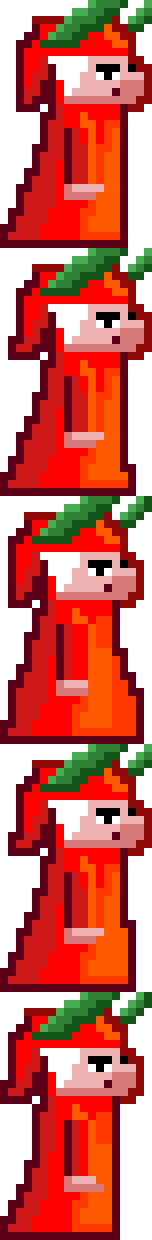
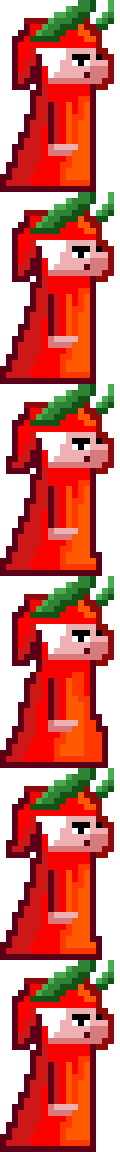
Update sprites, make Virgil follow player

diff --git a/game/src/main.js b/game/src/main.js
@@ -33,14 +33,14 @@ function preloadCommon(scene) {
     scene.load.spritesheet('tiles', 'assets/tileset.png', 
         {frameWidth: 128, frameHeight: 128});
     scene.load.spritesheet('player', 'assets/dante.png',
-        {frameWidth: 152, frameHeight: 248});
+        {frameWidth: 120, frameHeight: 192});
     scene.load.spritesheet('virgil', 'assets/virgil.png',
-        {frameWidth: 152, frameHeight: 248});
+        {frameWidth: 120, frameHeight: 192});
 
     scene.load.spritesheet('elevator', 'assets/elevator.png', 
-        {frameWidth: 350, frameHeight: 392});
+        {frameWidth: 375, frameHeight: 350});
     scene.load.spritesheet('elevator_doors', 'assets/elevator_doors.png', 
-        {frameWidth: 196, frameHeight: 322});
+        {frameWidth: 375, frameHeight: 350});
 
     const ui_assets = ['button_left_active', 'button_left_passive', 'button_right_active', 'button_right_passive']
     for (let image_key of ui_assets) {
@@ -117,10 +117,20 @@ function changeLevel(scene, nextLevel) {
 
 function onElevatorDoorsCollidePlayer(scene) {
     if (!scene.changeLevelRequested) {
+        scene.player.anims.play('player_idle', true);
         scene.player.setImmovable = true;
         scene.player.body.enable = false;
-
         scene.changeLevelRequested = true;
+        scene.waitingForVirgil = true;
+    }
+}
+
+function onElevatorDoorsCollideVirgil(scene) {
+    if (scene.changeLevelRequested && scene.waitingForVirgil) {
+        scene.virgil.anims.play('virgil_idle', true);
+        scene.virgil.setImmovable = true;
+        scene.virgil.body.enable = false;
+
         elevator_doors.setVisible(true);
         elevator_doors.anims.play('elevator_doors_close', false);
 
@@ -135,6 +145,7 @@ function onElevatorDoorsCollidePlayer(scene) {
     }
 }
 
+
 function initElevatorDoors(scene, map, player) {
     let elevator_doors_spawn = map.createFromObjects('game', {name: "elevator_doors", key: "elevator_doors"})[0];
     let elevator_doors = objectFromSpawnPoint(scene, elevator_doors_spawn, 'elevator_doors');
@@ -144,6 +155,7 @@ function initElevatorDoors(scene, map, player) {
     elevator_doors.body.setSize(10, 10);
 
     scene.physics.add.overlap(player, elevator_doors, () => onElevatorDoorsCollidePlayer(scene) );
+    scene.physics.add.overlap(scene.virgil, elevator_doors, () => onElevatorDoorsCollideVirgil(scene) );
     return elevator_doors;    
 }
 
@@ -160,17 +172,17 @@ function initCamera(scene, map) {
 
 function initAnimations(scene) { 
     scene.anims.create({
-        key: 'idle',
+        key: 'player_idle',
         frames: scene.anims.generateFrameNames('player', 
             { start: 0, end: 0}),
-        frameRate: 10,
-        repeat: -1
+        frameRate: 1,
+        repeat: 0
     });
 
     scene.anims.create({
         key: 'player_walk',
         frames: scene.anims.generateFrameNames('player', 
-            { start: 0, end: 4}),
+            { start: 2, end: 5}),
         frameRate: 5,
         repeat: -1
     });
@@ -179,16 +191,24 @@ function initAnimations(scene) {
     scene.anims.create({
         key: 'virgil_walk',
         frames: scene.anims.generateFrameNames('virgil', 
-            { start: 0, end: 3}),
+            { start: 1, end: 3}),
         frameRate: 5,
         repeat: -1
     });
 
     scene.anims.create({
+        key: 'virgil_idle',
+        frames: scene.anims.generateFrameNames('virgil', 
+            { start: 0, end: 0}),
+        frameRate: 1,
+        repeat: 0
+    });
+
+    scene.anims.create({
         key: 'elevator_doors_close',
         frames: scene.anims.generateFrameNames('elevator_doors', 
-            { start: 0, end: 6}),
-        frameRate: 15,
+            { start: 1, end: 9}),
+        frameRate: 10,
         repeat: 0
     });
 }
@@ -317,6 +337,7 @@ function initGameObjects(scene, map) {
     scene.physics.add.collider(scene.groundLayer, scene.virgil);
 
     elevator_doors = initElevatorDoors(scene, map, scene.player);
+    scene.elevator_doors = elevator_doors;
     scene.levelObjects.push(elevator_doors);
 }
 
@@ -348,6 +369,49 @@ function plyMove(player, left=true){
     }
 }
 
+
+function virgilMove(scene) {
+
+    if (!scene.waitingForVirgil) {
+        // Virgil follows player
+        const ply_virgil_dist = Math.abs(scene.player.x - scene.virgil.x);
+        if (ply_virgil_dist > virgilFollowThreshold) {
+            if (scene.player.x > scene.virgil.x) { // Player to the right of Virgil, Virgil walks left
+                scene.virgil.body.setVelocityX(virgilSpeed); // move left
+                scene.virgil.anims.play('virgil_walk', true);
+                scene.virgil.flipX = false;
+            } else {
+                scene.virgil.body.setVelocityX(-virgilSpeed); // move right
+                scene.virgil.anims.play('virgil_walk', true);
+                scene.virgil.flipX = true;
+            }
+        } else {
+            scene.virgil.body.setVelocityX(0);
+            scene.virgil.anims.play('virgil_idle', false);
+        }
+
+    } else {
+        // Virgil moves to elevator
+        const virgil_elevator_dist = Math.abs(scene.elevator_doors.x - scene.virgil.x);
+
+        if (virgil_elevator_dist > 0) {
+            if (scene.elevator_doors.x > scene.virgil.x) { // Elevator to the right of Virgil, Virgil walks left
+                scene.virgil.body.setVelocityX(virgilSpeed); // move left
+                scene.virgil.anims.play('virgil_walk', true);
+                scene.virgil.flipX = false;
+            } else {
+                scene.virgil.body.setVelocityX(-virgilSpeed); // move right
+                scene.virgil.anims.play('virgil_walk', true);
+                scene.virgil.flipX = true;
+            }
+        } else {
+            scene.virgil.body.setVelocityX(0);
+            scene.virgil.anims.play('virgil_idle', false);
+        }
+
+    }
+}
+
 function commonUpdate(scene) {
     if (scene.cursors.left.isDown || scene.ui.button_left_img.isPressed)
     {
@@ -364,6 +428,8 @@ function commonUpdate(scene) {
         scene.ui.button_left_img.setTexture('button_left_passive');
         scene.ui.button_right_img.setTexture('button_right_passive');
     }
+
+    virgilMove(scene);
 
     for (let obj of scene.levelObjects) {
         if (obj.text) {

diff --git a/game/src/scenes.js b/game/src/scenes.js
@@ -7,6 +7,7 @@ class BaseLevel extends Phaser.Scene {
         this.groundLayer = null;
         this.player = null;
         this.virgil = null;
+        this.elevator_doors = null;
         this.ui = null;
         this.cursors = null;
         this.levelObjects = [];
@@ -14,6 +15,7 @@ class BaseLevel extends Phaser.Scene {
         this.dialogues = null;
 
         this.changeLevelRequested = false;
+        this.waitingForVirgil = false;
     }
 
     preload () {

diff --git a/game/src/config.js b/game/src/config.js
@@ -4,4 +4,6 @@ const textCharDrawDelay = 7;
 const screenWidth = 800;
 const screenHeight = 600;
 const plySpeed = 500;
-const changeLevelDelay = 600;
+const changeLevelDelay = 1500;
+const virgilSpeed = 500;
+const virgilFollowThreshold = 200;
